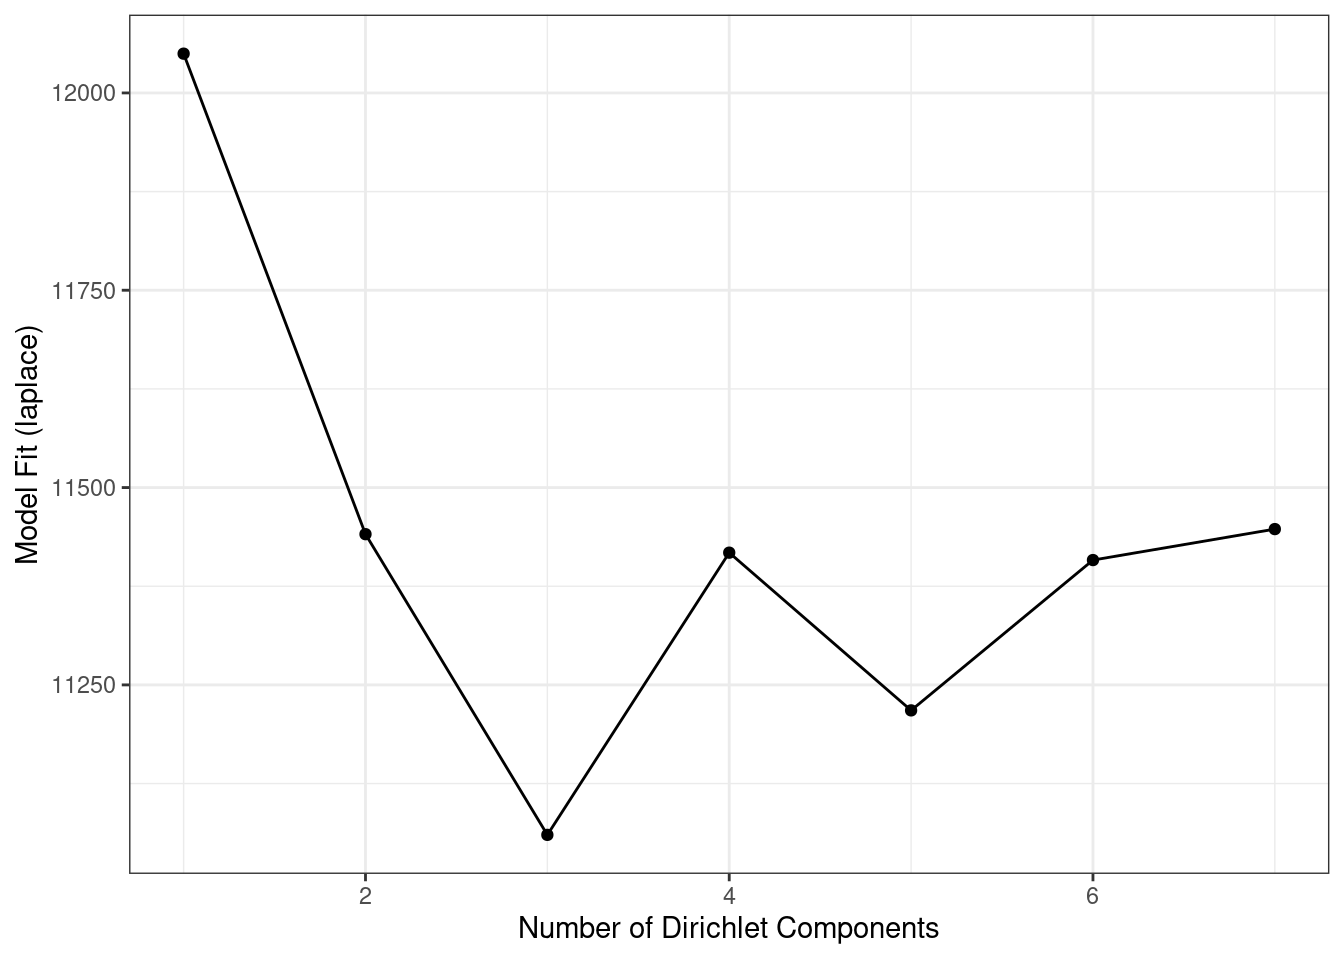
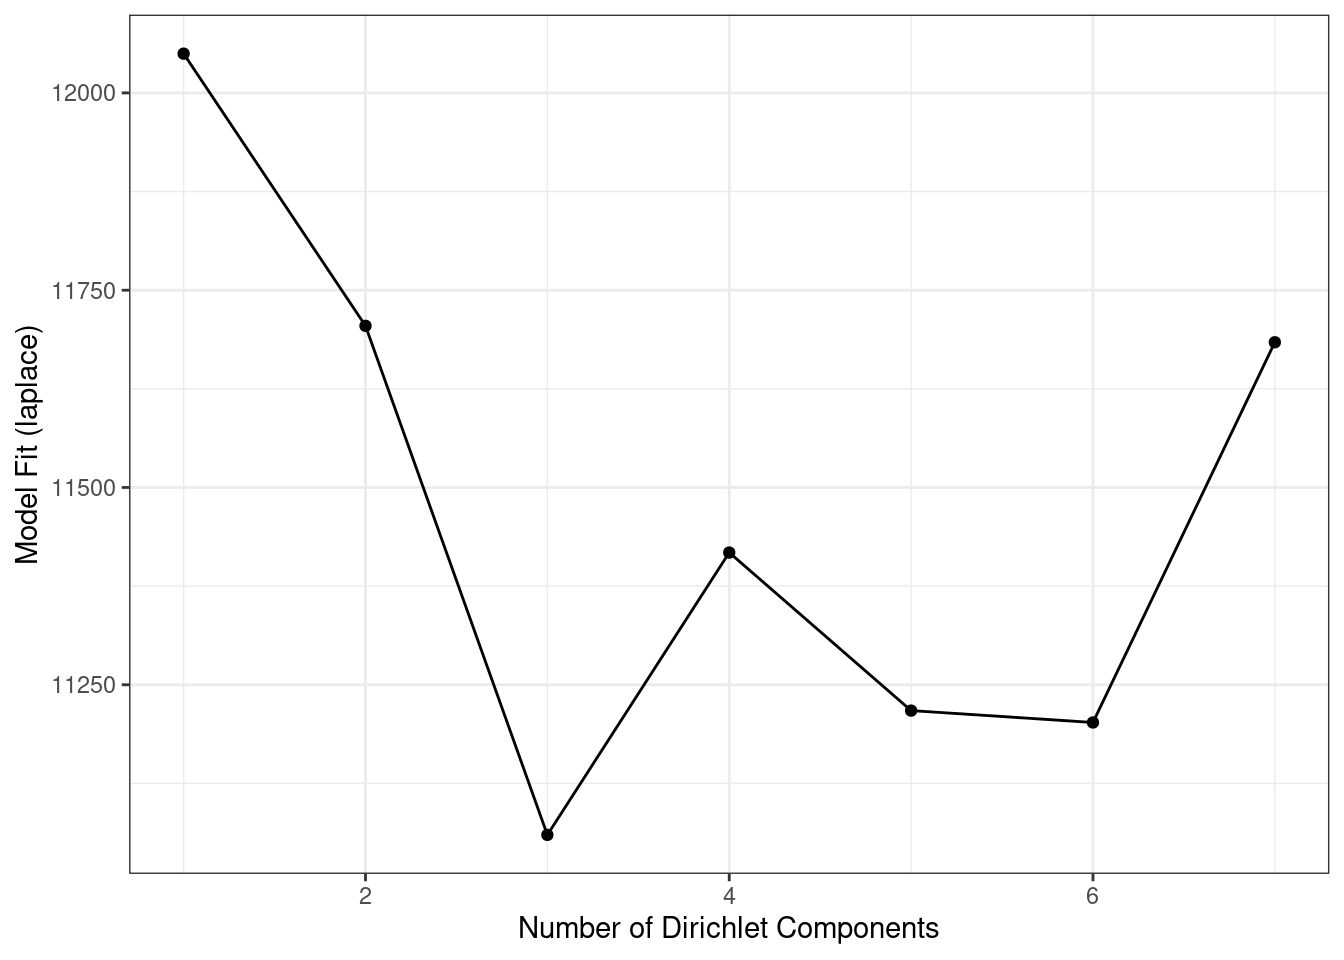
Updated the book

diff --git a/docs/dirichlet-multinomial-mixture-model.html b/docs/dirichlet-multinomial-mixture-model.html
@@ -21,7 +21,7 @@
   <meta name="twitter:description" content="Course material" />
   
 
-<meta name="author" content="Leo Lahti, Tuomas Borman, Henrik Eckerman" />
+<meta name="author" content="Leo Lahti, Tuomas Borman, Henrik Eckermann" />
 
 
 <meta name="date" content="2021-07-01" />
@@ -291,37 +291,37 @@ reflect the probability that a sample belongs to the given cluster.</p>
 ## class: DMN 
 ## k: 2 
 ## samples x taxa: 27 x 151 
-## Laplace: 11440.96 BIC: 12161.29 AIC: 11964.97 
+## Laplace: 11704.82 BIC: 12399.15 AIC: 12202.83 
 ## 
 ## [[3]]
 ## class: DMN 
 ## k: 3 
 ## samples x taxa: 27 x 151 
-## Laplace: 11060 BIC: 12266.31 AIC: 11971.51 
+## Laplace: 11059.76 BIC: 12266.31 AIC: 11971.51 
 ## 
 ## [[4]]
 ## class: DMN 
 ## k: 4 
 ## samples x taxa: 27 x 151 
-## Laplace: 11417.52 BIC: 13047.39 AIC: 12654.11 
+## Laplace: 11417.51 BIC: 13047.39 AIC: 12654.11 
 ## 
 ## [[5]]
 ## class: DMN 
 ## k: 5 
 ## samples x taxa: 27 x 151 
-## Laplace: 11217.71 BIC: 13305.58 AIC: 12813.8 
+## Laplace: 11217.24 BIC: 13305.58 AIC: 12813.8 
 ## 
 ## [[6]]
 ## class: DMN 
 ## k: 6 
 ## samples x taxa: 27 x 151 
-## Laplace: 11408.16 BIC: 13774.56 AIC: 13184.3 
+## Laplace: 11202.18 BIC: 13718.9 AIC: 13128.65 
 ## 
 ## [[7]]
 ## class: DMN 
 ## k: 7 
 ## samples x taxa: 27 x 151 
-## Laplace: 11447.4 BIC: 14253.48 AIC: 13564.75</code></pre>
+## Laplace: 11684.01 BIC: 14400.77 AIC: 13712.03</code></pre>
 <p>Show Laplace approximation (model evidence) for each model of the k models.</p>
 <div class="sourceCode" id="cb69"><pre class="sourceCode r"><code class="sourceCode r"><span id="cb69-1"><a href="dirichlet-multinomial-mixture-model.html#cb69-1" aria-hidden="true" tabindex="-1"></a><span class="fu">plotDMNFit</span>(tse_dmn, <span class="at">type =</span> <span class="st">&quot;laplace&quot;</span>)</span></code></pre></div>
 <p><img src="_main_files/figure-html/unnamed-chunk-42-1.png" width="672" /></p>
@@ -330,7 +330,7 @@ reflect the probability that a sample belongs to the given cluster.</p>
 <pre><code>## class: DMN 
 ## k: 3 
 ## samples x taxa: 27 x 151 
-## Laplace: 11060 BIC: 12266.31 AIC: 11971.51</code></pre>
+## Laplace: 11059.76 BIC: 12266.31 AIC: 11971.51</code></pre>
 <div id="pcoa-for-asv-level-data-with-bray-curtis-with-dmm-clusters-shown-with-colors" class="section level2" number="9.1">
 <h2><span class="header-section-number">9.1</span> PCoA for ASV-level data with Bray-Curtis; with DMM clusters shown with colors</h2>
 <p>Group samples and return DMNGroup object that contains a summary.
@@ -341,34 +341,34 @@ Patient status is used for grouping.</p>
 <span id="cb72-4"><a href="dirichlet-multinomial-mixture-model.html#cb72-4" aria-hidden="true" tabindex="-1"></a>dmn_group</span></code></pre></div>
 <pre><code>## class: DMNGroup 
 ## summary:
-##         k samples taxa      NLE     LogDet  Laplace      BIC      AIC
-## ADHD    3      13  151 6330.860  -50.39732 5887.545 6914.386 6785.860
-## Control 3      14  151 6647.269 -148.07532 6155.114 7247.655 7102.269</code></pre>
+##         k samples taxa      NLE    LogDet Laplace      BIC      AIC
+## ADHD    3      13  151 6018.131 -344.7893 5427.62 6601.657 6473.131
+## Control 3      14  151 6647.269 -147.5241 6155.39 7247.655 7102.269</code></pre>
 <p>Mixture weights (rough measure of the cluster size).</p>
 <div class="sourceCode" id="cb74"><pre class="sourceCode r"><code class="sourceCode r"><span id="cb74-1"><a href="dirichlet-multinomial-mixture-model.html#cb74-1" aria-hidden="true" tabindex="-1"></a>DirichletMultinomial<span class="sc">::</span><span class="fu">mixturewt</span>(<span class="fu">getBestDMNFit</span>(tse_dmn))</span></code></pre></div>
 <pre><code>##          pi    theta
-## 1 0.4814815 31.27737
-## 2 0.2962963 47.34421
-## 3 0.2222222 92.27455</code></pre>
+## 1 0.4814815 31.27764
+## 2 0.2962963 47.34431
+## 3 0.2222222 92.27394</code></pre>
 <p>Samples-cluster assignment probabilities / how probable it is that sample belongs
 to each cluster</p>
 <div class="sourceCode" id="cb76"><pre class="sourceCode r"><code class="sourceCode r"><span id="cb76-1"><a href="dirichlet-multinomial-mixture-model.html#cb76-1" aria-hidden="true" tabindex="-1"></a><span class="fu">head</span>(DirichletMultinomial<span class="sc">::</span><span class="fu">mixture</span>(<span class="fu">getBestDMNFit</span>(tse_dmn)))</span></code></pre></div>
 <pre><code>##               [,1]          [,2]          [,3]
-## A110  1.000000e+00 1.226740e-144 7.704690e-205
-## A12  9.788467e-117  6.052963e-93  1.000000e+00
-## A15   1.000000e+00 9.286070e-119 3.459661e-234
-## A19  5.354357e-112 1.794082e-107  1.000000e+00
-## A21   2.135599e-93  4.660732e-96  1.000000e+00
-## A23   1.000000e+00 8.665285e-111 1.971184e-161</code></pre>
+## A110  1.000000e+00 1.245878e-144 7.614906e-205
+## A12  9.815777e-117  6.112824e-93  1.000000e+00
+## A15   1.000000e+00 9.468644e-119 3.414255e-234
+## A19  5.373244e-112 1.814912e-107  1.000000e+00
+## A21   2.145215e-93  4.715927e-96  1.000000e+00
+## A23   1.000000e+00 8.790751e-111 1.948491e-161</code></pre>
 <p>Contribution of each taxa to each component</p>
 <div class="sourceCode" id="cb78"><pre class="sourceCode r"><code class="sourceCode r"><span id="cb78-1"><a href="dirichlet-multinomial-mixture-model.html#cb78-1" aria-hidden="true" tabindex="-1"></a><span class="fu">head</span>(DirichletMultinomial<span class="sc">::</span><span class="fu">fitted</span>(<span class="fu">getBestDMNFit</span>(tse_dmn)))</span></code></pre></div>
-<pre><code>##                [,1]        [,2]       [,3]
-## 1726470  6.35192024 2.898814164 20.1893945
-## 1726471  5.28786632 0.002046021  0.1532239
-## 17264731 0.00124778 9.144390437  2.0112240
-## 17264726 0.14048139 1.363552803  7.5894332
-## 1726472  2.10419296 3.523402082  2.6657195
-## 17264724 0.07236624 0.002046015  9.8545512</code></pre>
+<pre><code>##                 [,1]        [,2]       [,3]
+## 1726470  6.352199035 2.898736178 20.1892586
+## 1726471  5.287913008 0.002047309  0.1532229
+## 17264731 0.001248794 9.144551105  2.0112022
+## 17264726 0.140478993 1.363534648  7.5893565
+## 1726472  2.104142707 3.523458766  2.6656992
+## 17264724 0.072367856 0.002047309  9.8545567</code></pre>
 <p>Get the assignment probabilities</p>
 <div class="sourceCode" id="cb80"><pre class="sourceCode r"><code class="sourceCode r"><span id="cb80-1"><a href="dirichlet-multinomial-mixture-model.html#cb80-1" aria-hidden="true" tabindex="-1"></a>prob <span class="ot">&lt;-</span> DirichletMultinomial<span class="sc">::</span><span class="fu">mixture</span>(<span class="fu">getBestDMNFit</span>(tse_dmn))</span>
 <span id="cb80-2"><a href="dirichlet-multinomial-mixture-model.html#cb80-2" aria-hidden="true" tabindex="-1"></a><span class="co"># Add column names</span></span>

diff --git a/docs/beta-diversity.html b/docs/beta-diversity.html
@@ -21,7 +21,7 @@
   <meta name="twitter:description" content="Course material" />
   
 
-<meta name="author" content="Leo Lahti, Tuomas Borman, Henrik Eckerman" />
+<meta name="author" content="Leo Lahti, Tuomas Borman, Henrik Eckermann" />
 
 
 <meta name="date" content="2021-07-01" />
@@ -440,7 +440,7 @@ multivariate analysis of variance (PERMANOVA) test.</p>
 <span id="cb58-11"><a href="beta-diversity.html#cb58-11" aria-hidden="true" tabindex="-1"></a><span class="co"># P-value</span></span>
 <span id="cb58-12"><a href="beta-diversity.html#cb58-12" aria-hidden="true" tabindex="-1"></a><span class="fu">print</span>(<span class="fu">paste0</span>(<span class="st">&quot;Different different cohorts and variance of abundance between samples, p-value: &quot;</span>, </span>
 <span id="cb58-13"><a href="beta-diversity.html#cb58-13" aria-hidden="true" tabindex="-1"></a>             <span class="fu">as.data.frame</span>(permanova_cohort<span class="sc">$</span>aov.tab)[<span class="st">&quot;cohort&quot;</span>, <span class="st">&quot;Pr(&gt;F)&quot;</span>]))</span></code></pre></div>
-<pre><code>## [1] &quot;Different different cohorts and variance of abundance between samples, p-value: 0.7401&quot;</code></pre>
+<pre><code>## [1] &quot;Different different cohorts and variance of abundance between samples, p-value: 0.7384&quot;</code></pre>
 <p>As we see, the cohort variable is not significantly associated with
 microbiota composition (p-value is over 0.05).</p>
 <p>We can, however, visualize those taxa whose abundance are the most

diff --git a/docs/index.html b/docs/index.html
@@ -21,7 +21,7 @@
   <meta name="twitter:description" content="Course material" />
   
 
-<meta name="author" content="Leo Lahti, Tuomas Borman, Henrik Eckerman" />
+<meta name="author" content="Leo Lahti, Tuomas Borman, Henrik Eckermann" />
 
 
 <meta name="date" content="2021-07-01" />
@@ -246,7 +246,7 @@ code span.wa { color: #60a0b0; font-weight: bold; font-style: italic; } /* Warni
             <section class="normal" id="section-">
 <div id="header">
 <h1 class="title">Miscellaneous material</h1>
-<p class="author"><em>Leo Lahti, Tuomas Borman, Henrik Eckerman</em></p>
+<p class="author"><em>Leo Lahti, Tuomas Borman, Henrik Eckermann</em></p>
 <p class="date" style="margin-top: 1.5em;"><em>2021-07-01</em></p>
 </div>
 <div id="overview" class="section level1" number="1">

diff --git a/docs/alpha-diversity.html b/docs/alpha-diversity.html
@@ -21,7 +21,7 @@
   <meta name="twitter:description" content="Course material" />
   
 
-<meta name="author" content="Leo Lahti, Tuomas Borman, Henrik Eckerman" />
+<meta name="author" content="Leo Lahti, Tuomas Borman, Henrik Eckermann" />
 
 
 <meta name="date" content="2021-07-01" />

diff --git a/docs/data-exploration.html b/docs/data-exploration.html
@@ -21,7 +21,7 @@
   <meta name="twitter:description" content="Course material" />
   
 
-<meta name="author" content="Leo Lahti, Tuomas Borman, Henrik Eckerman" />
+<meta name="author" content="Leo Lahti, Tuomas Borman, Henrik Eckermann" />
 
 
 <meta name="date" content="2021-07-01" />

diff --git a/docs/differential-abundance-analysis.html b/docs/differential-abundance-analysis.html
@@ -21,7 +21,7 @@
   <meta name="twitter:description" content="Course material" />
   
 
-<meta name="author" content="Leo Lahti, Tuomas Borman, Henrik Eckerman" />
+<meta name="author" content="Leo Lahti, Tuomas Borman, Henrik Eckermann" />
 
 
 <meta name="date" content="2021-07-01" />

diff --git a/docs/getting-started.html b/docs/getting-started.html
@@ -21,7 +21,7 @@
   <meta name="twitter:description" content="Course material" />
   
 
-<meta name="author" content="Leo Lahti, Tuomas Borman, Henrik Eckerman" />
+<meta name="author" content="Leo Lahti, Tuomas Borman, Henrik Eckermann" />
 
 
 <meta name="date" content="2021-07-01" />

diff --git a/docs/import-data.html b/docs/import-data.html
@@ -21,7 +21,7 @@
   <meta name="twitter:description" content="Course material" />
   
 
-<meta name="author" content="Leo Lahti, Tuomas Borman, Henrik Eckerman" />
+<meta name="author" content="Leo Lahti, Tuomas Borman, Henrik Eckermann" />
 
 
 <meta name="date" content="2021-07-01" />

diff --git a/docs/install-and-load-required-r-packages.html b/docs/install-and-load-required-r-packages.html
@@ -21,7 +21,7 @@
   <meta name="twitter:description" content="Course material" />
   
 
-<meta name="author" content="Leo Lahti, Tuomas Borman, Henrik Eckerman" />
+<meta name="author" content="Leo Lahti, Tuomas Borman, Henrik Eckermann" />
 
 
 <meta name="date" content="2021-07-01" />

diff --git a/docs/miscellaneous-material.html b/docs/miscellaneous-material.html
@@ -21,7 +21,7 @@
   <meta name="twitter:description" content="Course material" />
   
 
-<meta name="author" content="Leo Lahti, Tuomas Borman, Henrik Eckerman" />
+<meta name="author" content="Leo Lahti, Tuomas Borman, Henrik Eckermann" />
 
 
 <meta name="date" content="2021-07-01" />

diff --git a/docs/program.html b/docs/program.html
@@ -21,7 +21,7 @@
   <meta name="twitter:description" content="Course material" />
   
 
-<meta name="author" content="Leo Lahti, Tuomas Borman, Henrik Eckerman" />
+<meta name="author" content="Leo Lahti, Tuomas Borman, Henrik Eckermann" />
 
 
 <meta name="date" content="2021-07-01" />

diff --git a/docs/study-material.html b/docs/study-material.html
@@ -21,7 +21,7 @@
   <meta name="twitter:description" content="Course material" />
   
 
-<meta name="author" content="Leo Lahti, Tuomas Borman, Henrik Eckerman" />
+<meta name="author" content="Leo Lahti, Tuomas Borman, Henrik Eckermann" />
 
 
 <meta name="date" content="2021-07-01" />
